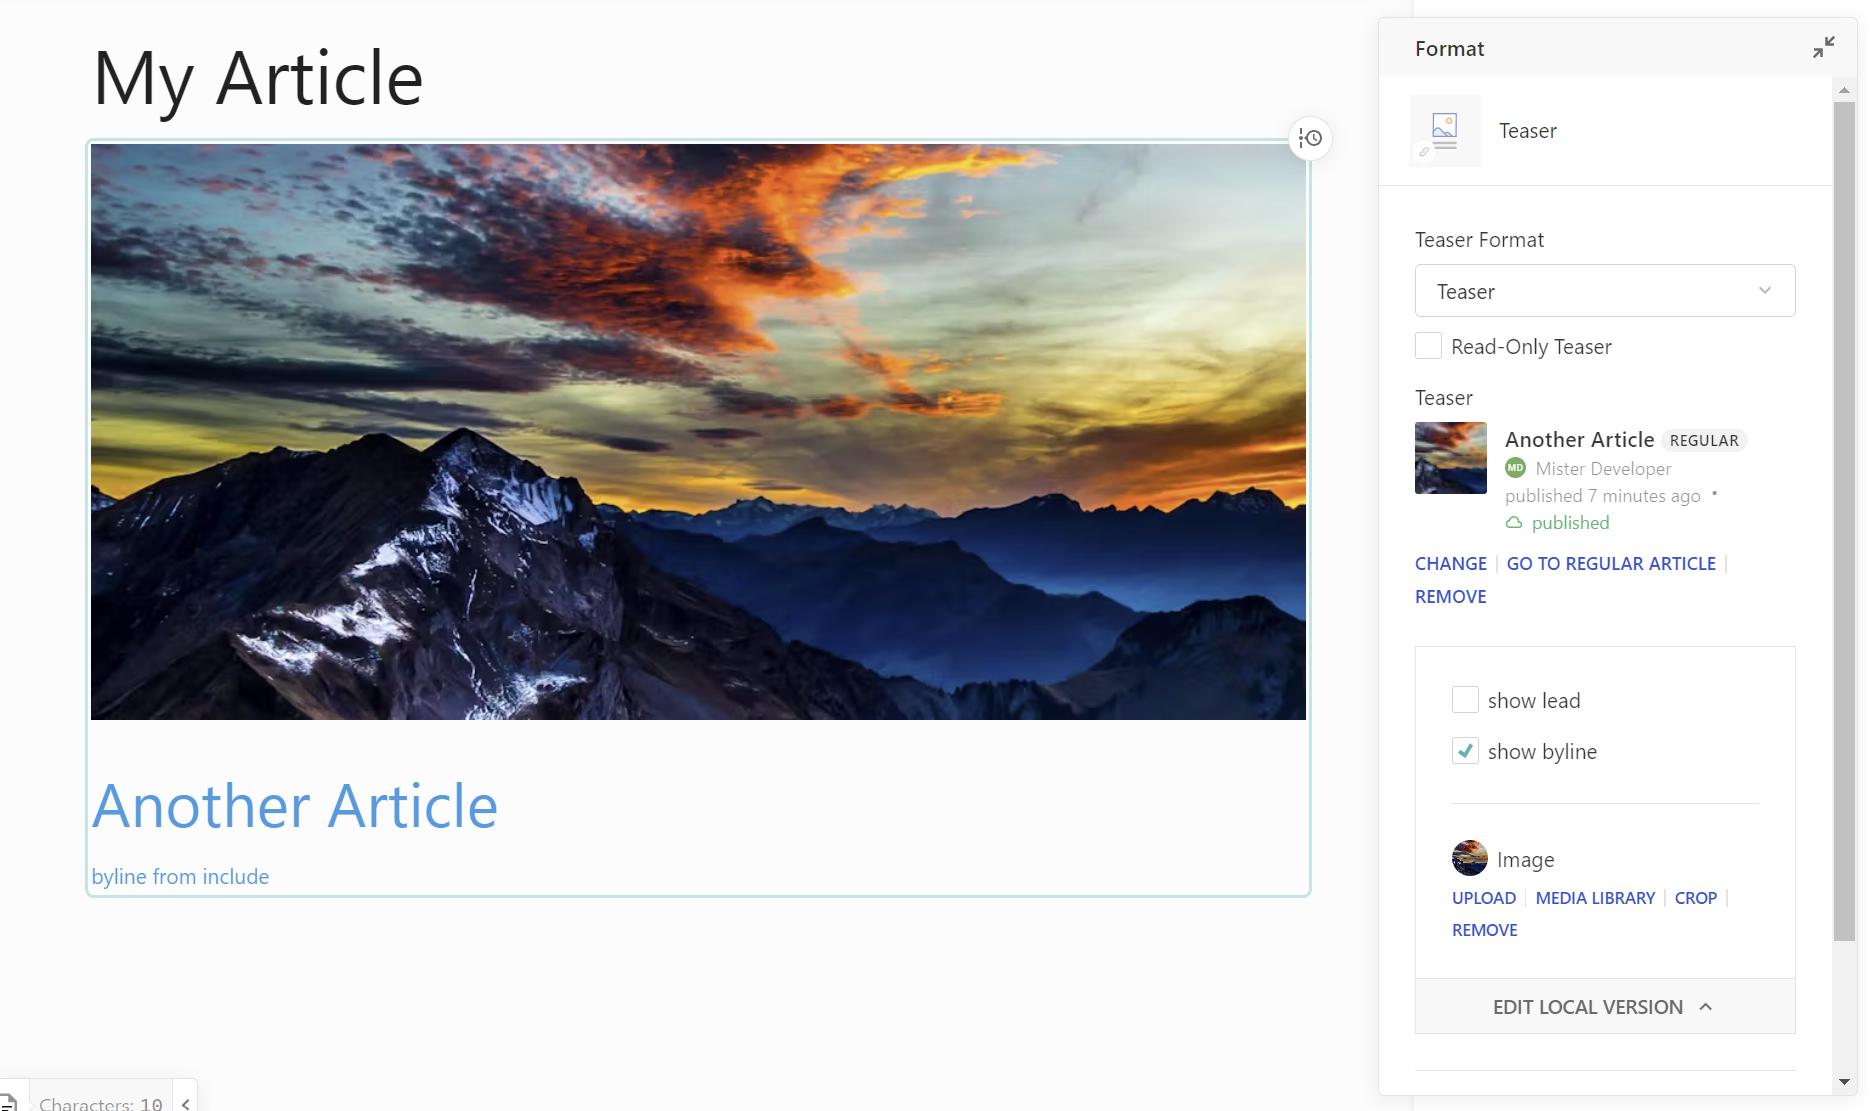
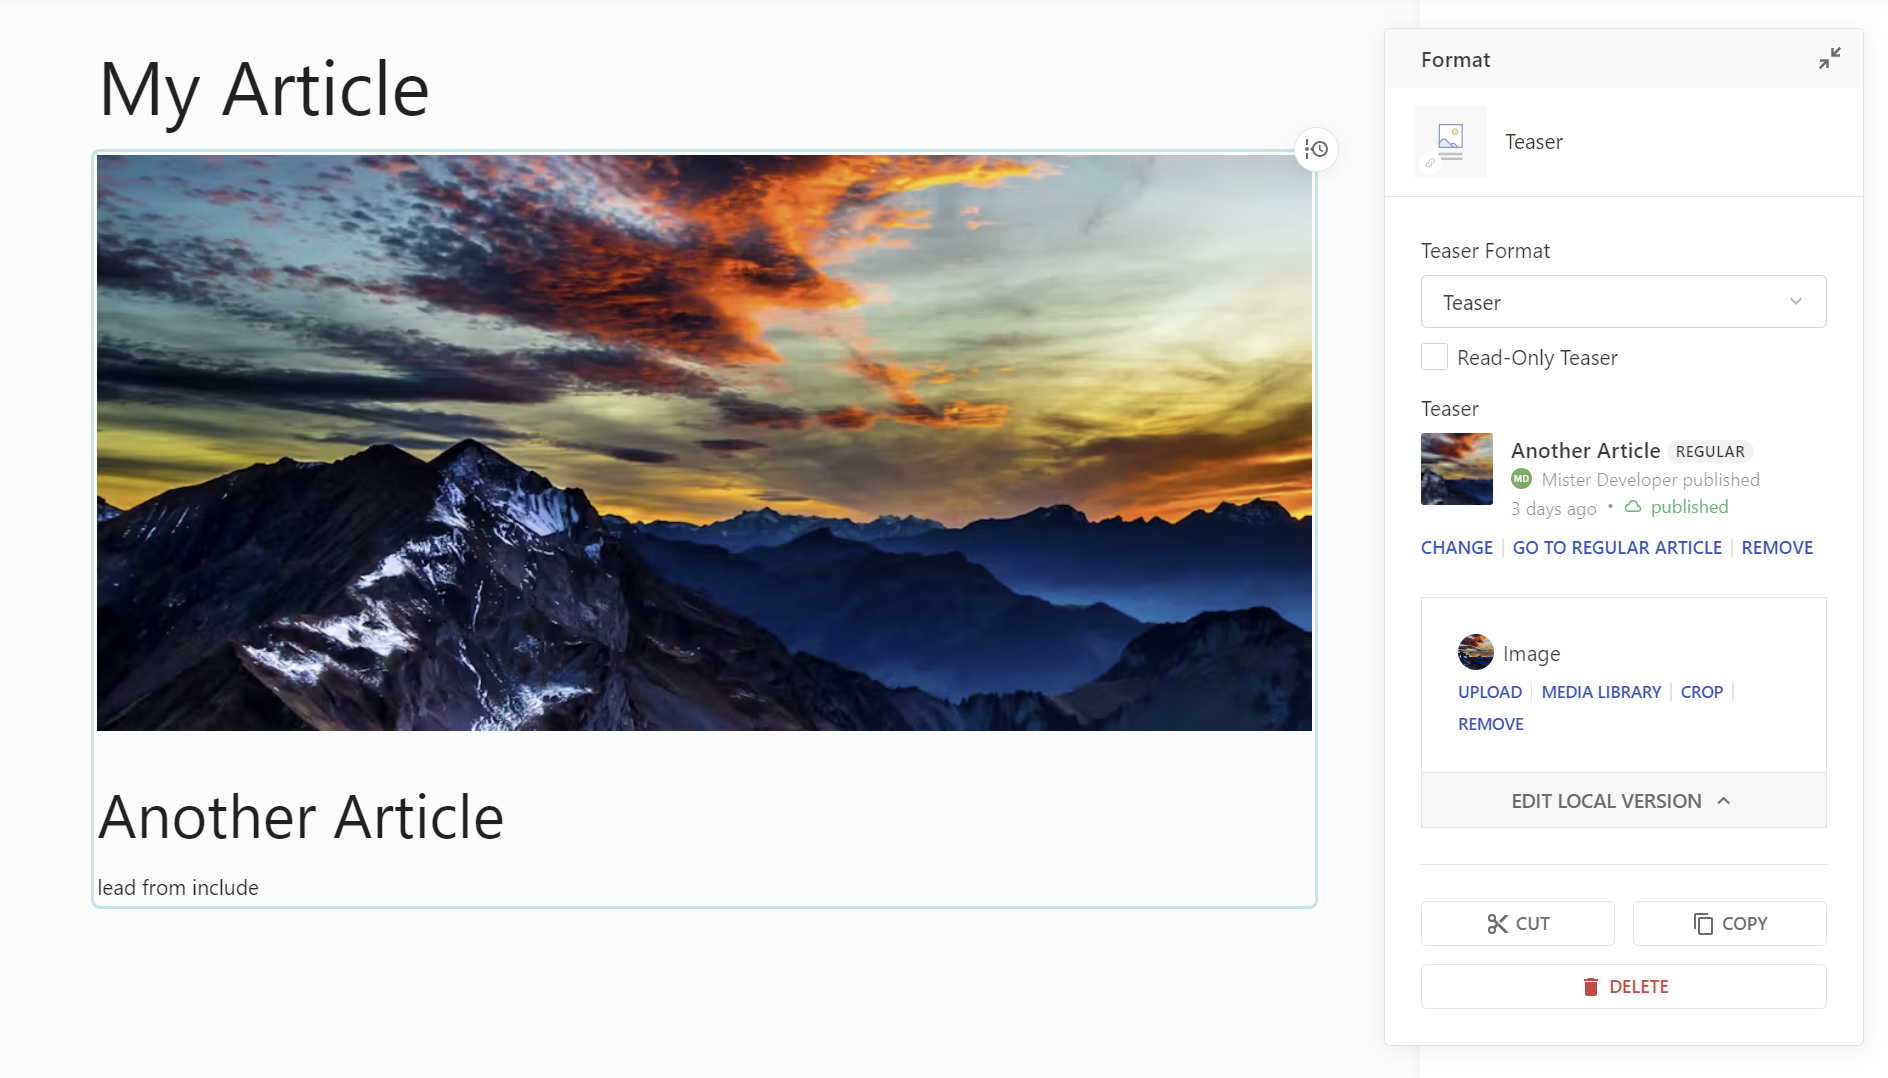
docs: update picture and text

diff --git a/content/guides/documents/includes/document-teasers.md b/content/guides/documents/includes/document-teasers.md
@@ -232,7 +232,7 @@ module.exports = {
   }],
   properties: ['teaser-type'],
   html: `
-    <div class="teaser" doc-link="link" style="display: block;">
+    <div class="teaser" style="display: block;">
       <img class="responsive-img" doc-image="image">
       <h3 doc-editable="title">Title</h3>
       <p class="text" doc-editable="lead">
@@ -244,7 +244,8 @@ module.exports = {
 
 ```
 
-With the teaser finally in place we can link articles and the editor will populate the values as we return them out of our service. Also you can see the above directives of our teaser appear in a box on the sidebar (doc-toggles, doc-image).
+With the teaser finally in place we can link articles and the editor will populate the values as we return them out of our service. Also you can see the above directives of our teaser appear in a box on the sidebar (doc-image).
+
 {{< img src="./my-teaser.png" alt="Empty Teaser Include" >}}
 
 ## Document Dashboard in Editor
